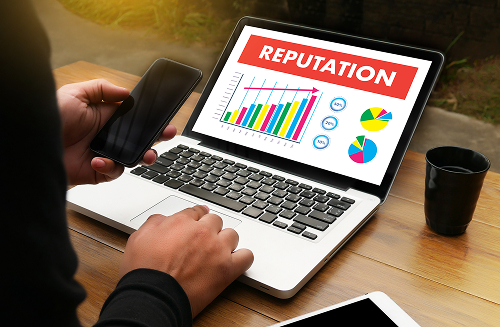
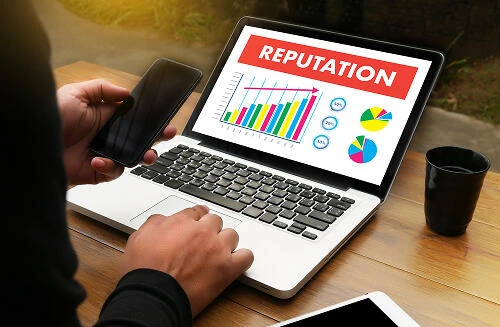
opg 18 - Vurdering af billedekavilitet og ydeligere komprimering asf billeder
Jeg vurderede at jeg godt kunne komprimere billederne ydeligere uden det gik ud over kvailiteten.

Samt besvarede jeg osgå på spørgsmålet i bunden om Hvor meget blev filstørrelserne reduceret?
Her lavede jeg en tabel med før og efter, så man kan se at størrelsen er betydelig faldet

diff --git a/css/style.css b/css/style.css
@@ -18,6 +18,7 @@ p {
         font-family: 'Trebuchet MS', 'Lucida Sans Unicode', 'Lucida Grande', 'Lucida Sans', Arial, sans-serif;
         background-color: #255D79;
         color: #ffffff;
+        
     }
 
     .header p {
@@ -34,7 +35,7 @@ p {
         margin-right: 20px;
         float: right;
         font-family: 'Gill Sans', 'Gill Sans MT', Calibri, 'Trebuchet MS', sans-serif;
-        font-size: 24px;
+        font-size: 20px;
     }
 
 

diff --git a/README.md b/README.md
@@ -1334,6 +1334,9 @@ lav filstørrelse
 acceptabel billedkvalitet
 ```
 
+## Vurdering
+Kvaliteren var god, så jeg prøvedet at se om jeg kunne komprimere billederne ydeligere, så de fyldte mindre. Det gjorde jeg så meget jeg kunne, uden jeg synes det gik ud over kvailiteten. 
+
 ---
 
 # Opgave 19 – Kør Lighthouse Performance igen
@@ -2134,17 +2137,26 @@ Efter:
 
 7. Hvilke billeder optimerede du?
 ```text
+Jeg optimere på alle billederne. De tre ikon billeder ændrede jeg bare dimensionerne, blev de blev 300x300 istedet for 1000x1000.
 
+Alle andre billeder, ændrede jeg først dimensionerne, så de blev en del mindre. Meget mere passende til web. 
+Derefter komprimerede jeg dem med https://www.websiteplanet.com/da/webtools/imagecompressor/. 
+Og til sidst konvertede dem til webp med https://cloudconvert.com/jpg-to-webp.
 ```
 
 
 8. Hvor meget blev filstørrelserne reduceret?
-```text
-Før: 
 
+| Billede                            | Dimensioner Før | Dimensioner Efter | Filstørrelse Før | Filstørrelse Efter |
+| ---------------------------------- | ------ | ----------: | -----------: | --------------------- |
+| `digital-marketing-meeting.jpg`       |    8688 × 5792    |      1500 × 1000       |      14,2 mb        |          236 kB             |
+| `search-engine-optimization.jpg`   |    7360 × 4912    |     500 × 334        |      14,9 mb        |           61 kB            |
+| `online-reputation-management.jpg` |   4404 × 2877     |      500 × 327       |      6,7 mb        |         47 kB           |
+| `social-media-marketing.jpg`       |    5000 × 3451    |      500 × 345       |       14,2 mb       |          80 kB             |
+| `brand-awareness.png`   |    1000 × 1000    |      1000 × 1000       |       63 kB        |            1 Kb           |
+| `cost-management.png` |    1000 × 1000    |      300 × 300       |       41 kB       |          10 kB             |
+| `lead-generation.png`       |   1000 × 1000    |      300 × 300       |      40 kB        |           6 kB            |
 
-
-```
 
 
 9. Hvilke elementer gjorde du til flex-containere?
@@ -2219,8 +2231,8 @@ Før gik teksten ud over deres bokse. Det skete fordi indholdet blev højere end
 - [x] Relevante billeder er konverteret til WebP.
 - [x] HTML-referencer er opdateret.
 - [x] Hero-billedets CSS-reference er kontrolleret.
-- [ ] Billedkvalitet er vurderet.
-- [ ] Network-panelet er anvendt til kontrol.
+- [x] Billedkvalitet er vurderet.
+- [x] Network-panelet er anvendt til kontrol.
 - [ ] Lighthouse Performance er kørt igen.
 - [ ] Performance-score er 90 eller højere.
 
